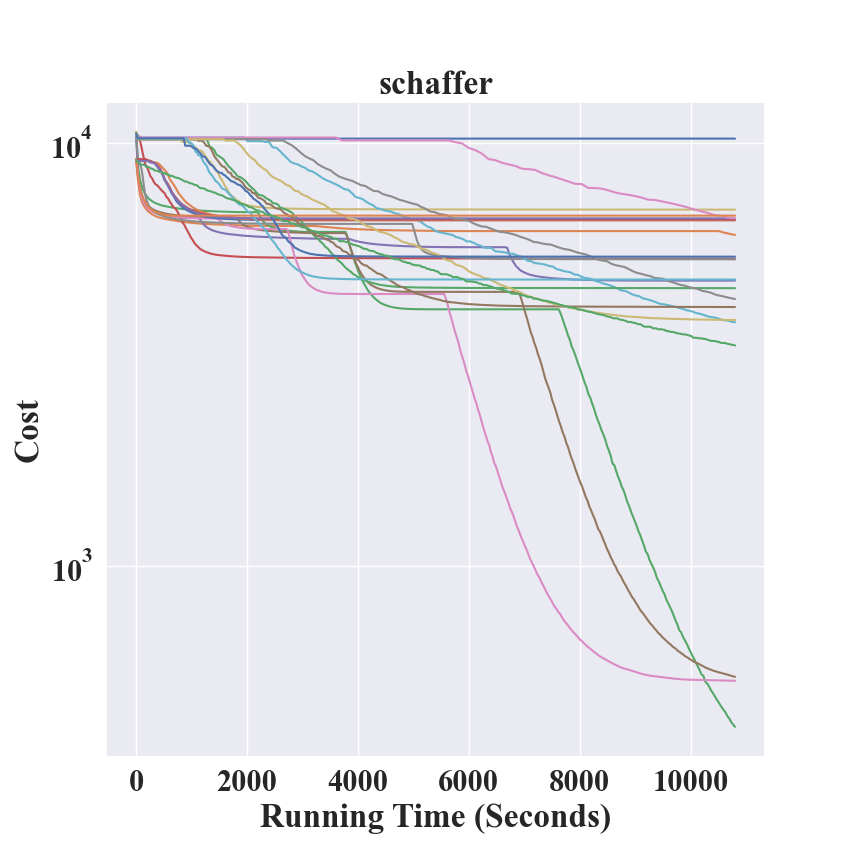
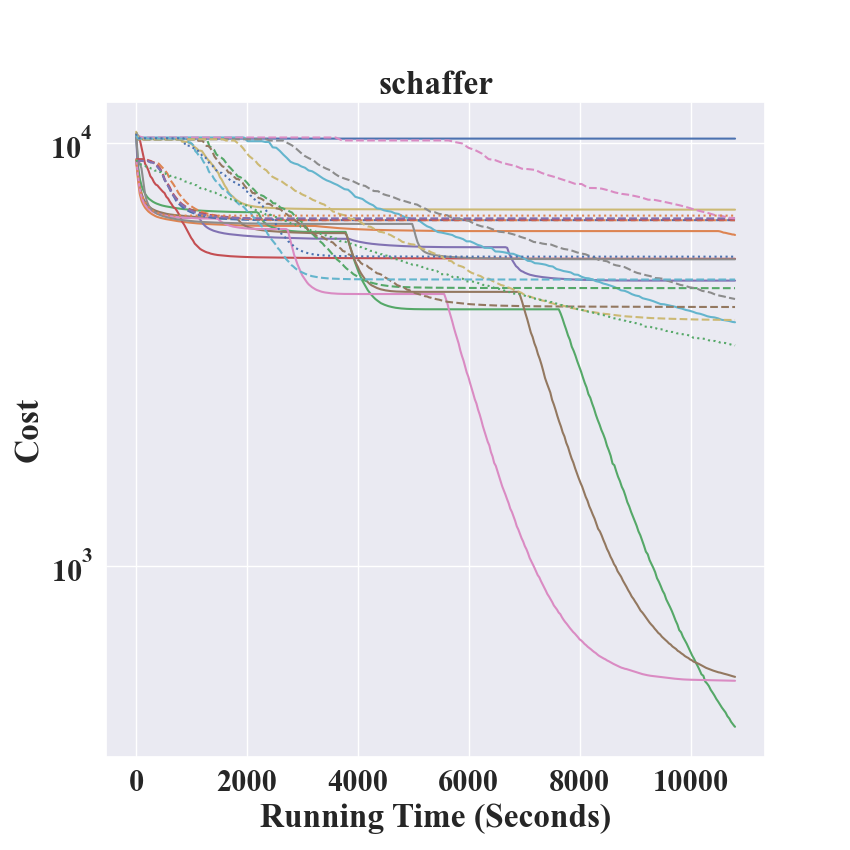
Update docs/pypop7_benchmarks_lso/single-core/compare_efficiency_es.py and docs/pypop7_benchmarks_lso/single-core/mo_compare_efficiency_es.py

diff --git a/docs/pypop7_benchmarks_lso/single-core/compare_efficiency_es.py b/docs/pypop7_benchmarks_lso/single-core/compare_efficiency_es.py
@@ -67,7 +67,12 @@ if __name__ == '__main__':
         plt.figure(figsize=(8.5, 8.5))
         plt.yscale('log')
         for j, a in enumerate(algos):
-            plt.plot(time[j][top_order[j]], fitness[j][top_order[j]], label=a)
+            if j < 10:
+                plt.plot(time[j][top_order[j]], fitness[j][top_order[j]], label=a)
+            elif j < 20:
+                plt.plot(time[j][top_order[j]], fitness[j][top_order[j]], '--', label=a)
+            else:
+                plt.plot(time[j][top_order[j]], fitness[j][top_order[j]], ':', label=a)
         plt.xlabel('Running Time (Seconds)', fontsize=24, fontweight='bold')
         plt.ylabel('Cost', fontsize=24, fontweight='bold')
         plt.title(f, fontsize=24, fontweight='bold')

diff --git a/docs/pypop7_benchmarks_lso/single-core/mo_compare_efficiency_es.py b/docs/pypop7_benchmarks_lso/single-core/mo_compare_efficiency_es.py
@@ -69,7 +69,12 @@ if __name__ == '__main__':
         plt.figure(figsize=(8.5, 8.5))
         plt.yscale('log')
         for j, a in enumerate(algos):
-            plt.plot(time[j][top_order[j]], fitness[j][top_order[j]], label=a)
+            if j < 10:
+                plt.plot(time[j][top_order[j]], fitness[j][top_order[j]], label=a)
+            elif j < 20:
+                plt.plot(time[j][top_order[j]], fitness[j][top_order[j]], '--', label=a)
+            else:
+                plt.plot(time[j][top_order[j]], fitness[j][top_order[j]], ':', label=a)
         plt.xlabel('Running Time (Seconds)', fontsize=24, fontweight='bold')
         plt.ylabel('Cost', fontsize=24, fontweight='bold')
         plt.title(f, fontsize=24, fontweight='bold')
